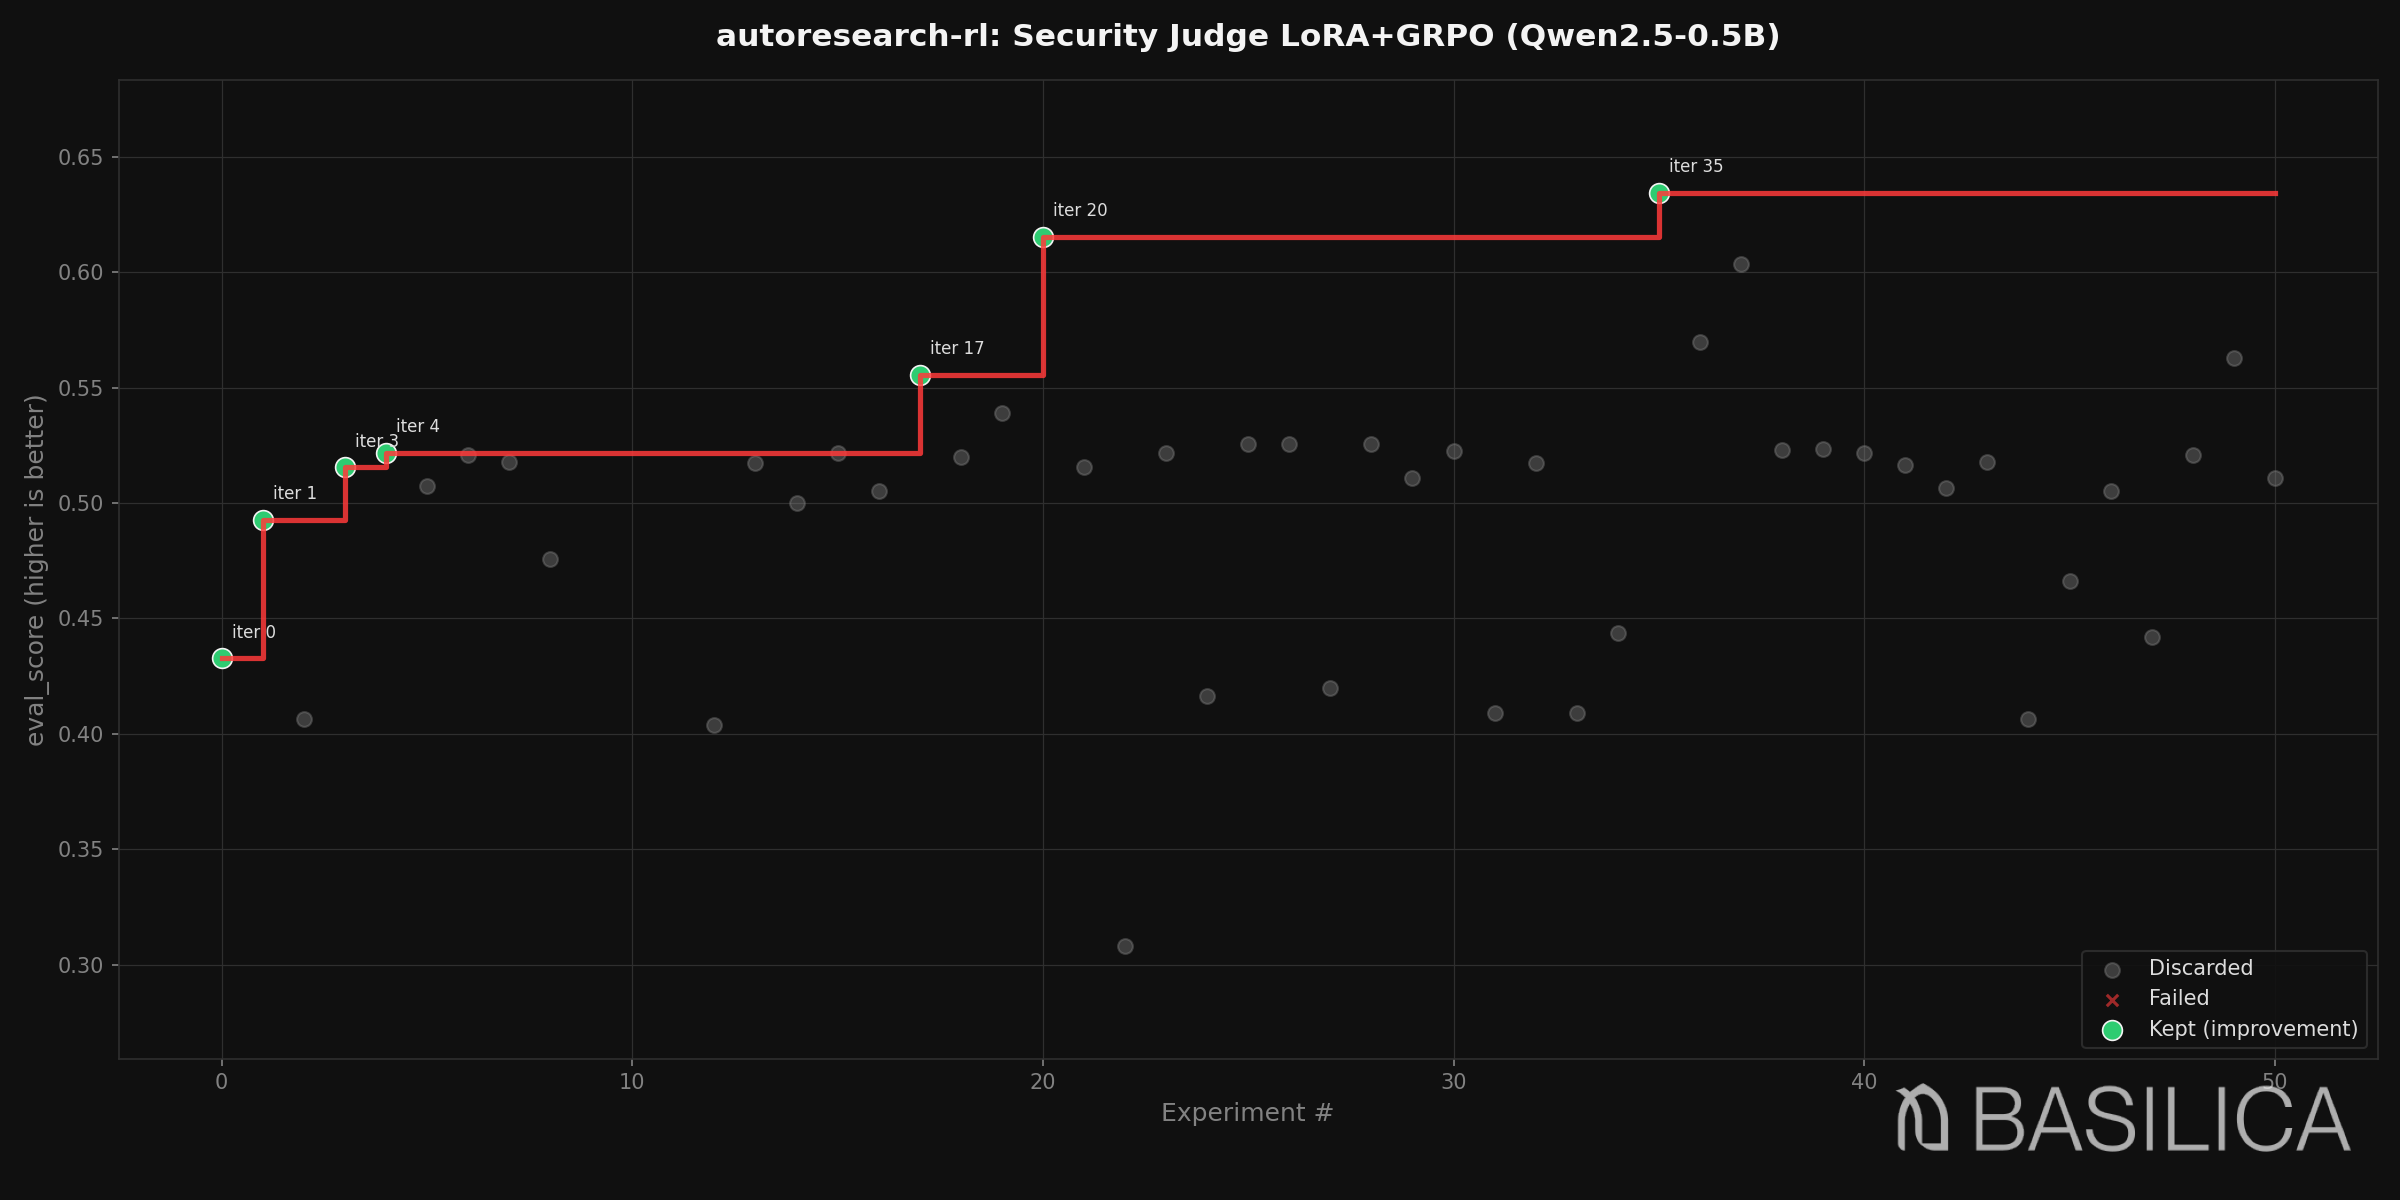
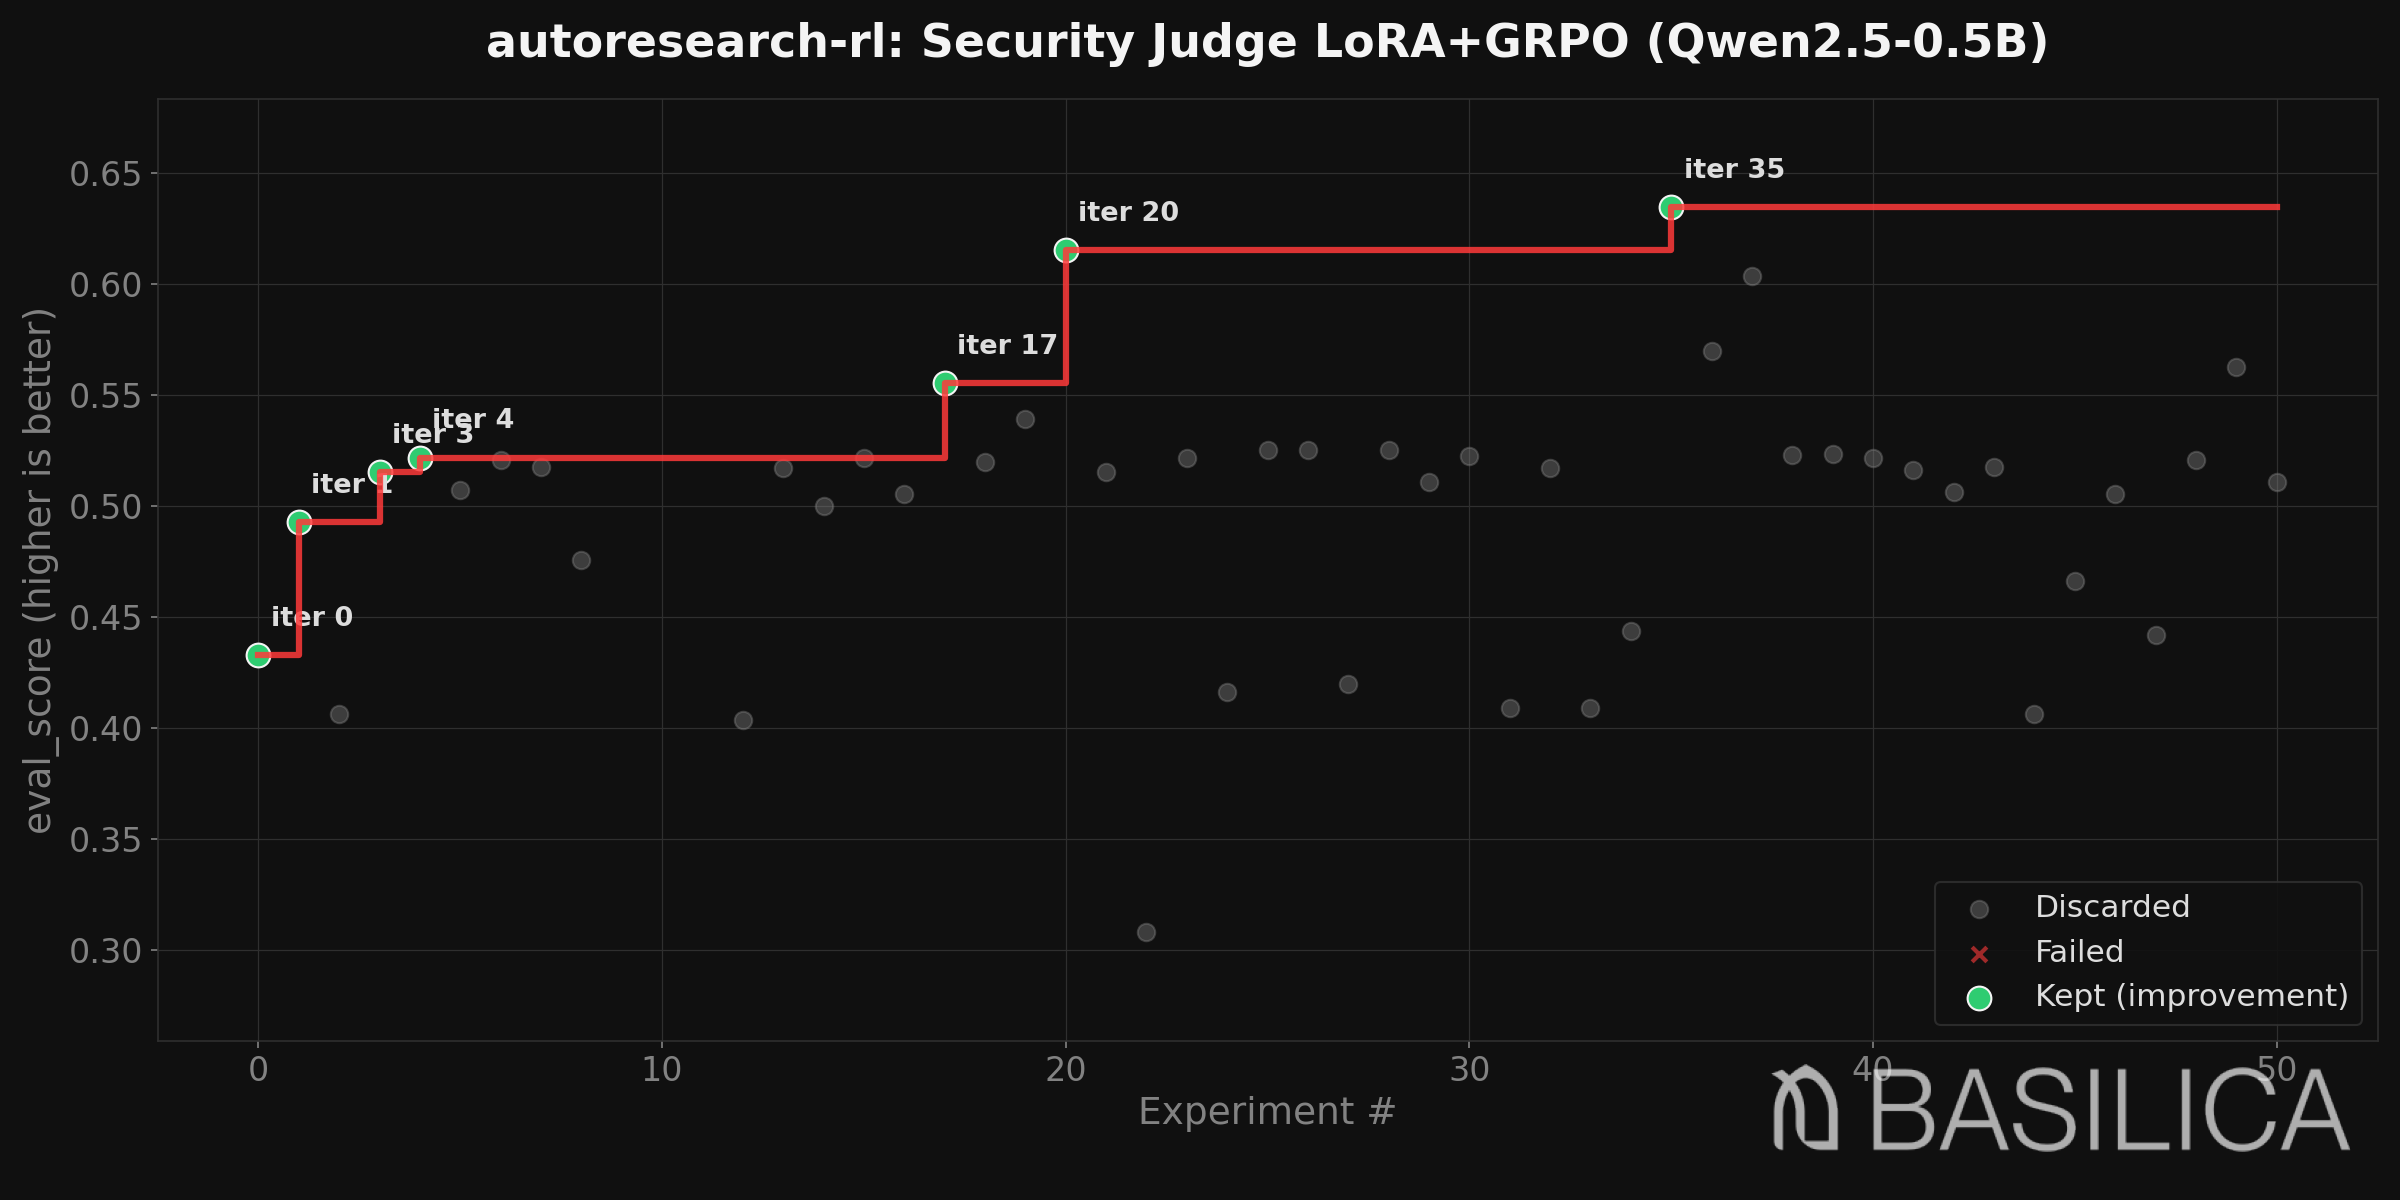
style: increase all chart font sizes for readability

diff --git a/scripts/progress_chart.py b/scripts/progress_chart.py
@@ -135,20 +135,20 @@ def plot_progress(
         spine.set_linewidth(0.8)
 
     # Tick styling: light text on dark
-    ax.tick_params(colors=BLK500, labelsize=10)
+    ax.tick_params(colors=BLK500, labelsize=16)
 
     # Discarded: muted gray
     if xs_discard:
         ax.scatter(
             xs_discard, ys_discard,
-            c=BLK500, s=50, alpha=0.4, zorder=2, label="Discarded",
+            c=BLK500, s=70, alpha=0.4, zorder=2, label="Discarded",
         )
 
     # Failed: red x
     if xs_fail:
         ax.scatter(
             xs_fail, [max(ys_keep or ys_discard or [0]) * 0.01] * len(xs_fail),
-            c=RED, s=30, alpha=0.6, marker="x", linewidths=1.5,
+            c=RED, s=50, alpha=0.6, marker="x", linewidths=2,
             zorder=2, label="Failed",
         )
 
@@ -156,7 +156,7 @@ def plot_progress(
     if xs_keep:
         ax.scatter(
             xs_keep, ys_keep,
-            c=GREEN, s=90, edgecolors=WHT0, linewidths=0.8,
+            c=GREEN, s=130, edgecolors=WHT0, linewidths=1.0,
             zorder=3, label="Kept (improvement)",
         )
 
@@ -164,7 +164,7 @@ def plot_progress(
     valid_running = [(i, v) for i, v in enumerate(running_best) if v > 0]
     if valid_running:
         rx, ry = zip(*valid_running)
-        ax.step(rx, ry, where="post", color=RED, alpha=0.85, linewidth=2.5, zorder=4)
+        ax.step(rx, ry, where="post", color=RED, alpha=0.85, linewidth=3, zorder=4)
 
     # Annotate kept experiments
     for xi, yi in zip(xs_keep, ys_keep):
@@ -172,8 +172,8 @@ def plot_progress(
         label = f"iter {row.iter}"
         ax.annotate(
             label, (xi, yi),
-            textcoords="offset points", xytext=(5, 10),
-            fontsize=8, color=WHT100ALT, fontweight="medium",
+            textcoords="offset points", xytext=(6, 14),
+            fontsize=13, color=WHT100ALT, fontweight="bold",
         )
 
     n_total = len(rows)
@@ -186,13 +186,13 @@ def plot_progress(
         f"autoresearch-rl: {n_total} experiments, "
         f"{n_kept} kept, {n_failed} failed"
     )
-    ax.set_title(chart_title, fontsize=15, fontweight="bold", color=WHT0, pad=16)
-    ax.set_xlabel("Experiment #", fontsize=12, color=BLK500)
-    ax.set_ylabel(f"{metric_name} ({dir_label})", fontsize=12, color=BLK500)
+    ax.set_title(chart_title, fontsize=22, fontweight="bold", color=WHT0, pad=20)
+    ax.set_xlabel("Experiment #", fontsize=18, color=BLK500)
+    ax.set_ylabel(f"{metric_name} ({dir_label})", fontsize=18, color=BLK500)
 
     legend = ax.legend(
         loc="upper right" if direction == "min" else "lower right",
-        fontsize=10, framealpha=0.9, edgecolor=BLK800,
+        fontsize=15, framealpha=0.9, edgecolor=BLK800,
         facecolor=BLK1000,
     )
     for text in legend.get_texts():
@@ -208,7 +208,7 @@ def plot_progress(
     # Basilica logo (bottom right)
     if LOGO_PNG.exists():
         logo_img = mpimg.imread(str(LOGO_PNG))
-        imagebox = OffsetImage(logo_img, zoom=0.55, alpha=0.7)
+        imagebox = OffsetImage(logo_img, zoom=0.7, alpha=0.7)
         ab = AnnotationBbox(
             imagebox, (0.98, 0.04),
             xycoords="figure fraction",
